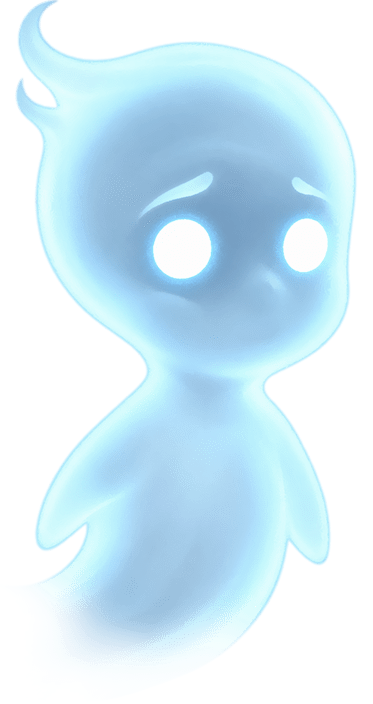
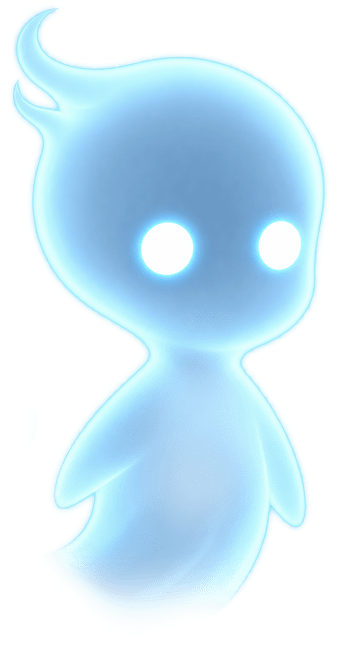
Backup slash combat tuning

diff --git a/index.html b/index.html
@@ -117,7 +117,7 @@
         
         const scene = new THREE.Scene();
 
-        const createBackgroundTexture = () => {
+        const createBackgroundTexture = (areaName = 'basement') => {
             const bgCanvas = document.createElement('canvas');
             bgCanvas.width = Math.max(512, window.innerWidth);
             bgCanvas.height = Math.max(512, window.innerHeight);
@@ -131,9 +131,17 @@
                 bgCanvas.height * 0.45,
                 radius
             );
-            gradient.addColorStop(0, '#2a0508');
-            gradient.addColorStop(0.55, '#170306');
-            gradient.addColorStop(1, '#050001');
+
+            if (areaName === 'lobby') {
+                gradient.addColorStop(0, '#3a3a3a');
+                gradient.addColorStop(0.55, '#202020');
+                gradient.addColorStop(1, '#070707');
+            } else {
+                gradient.addColorStop(0, '#2a0508');
+                gradient.addColorStop(0.55, '#170306');
+                gradient.addColorStop(1, '#050001');
+            }
+
             bgCtx.fillStyle = gradient;
             bgCtx.fillRect(0, 0, bgCanvas.width, bgCanvas.height);
 
@@ -142,7 +150,7 @@
             return texture;
         };
 
-        scene.background = createBackgroundTexture();
+        scene.background = createBackgroundTexture('basement');
         
         const getAdaptiveCameraFov = () => {
             const aspect = window.innerWidth / window.innerHeight;
@@ -174,6 +182,10 @@
         });
 
         let characterFacing = 1;
+        let soulAnimTime = 0;
+        let slashPoseTimer = 0;
+        const slashPoseDuration = 0.18;
+        let slashPoseDir = { x: 1, z: 0 };
         // Group to hold both shadow and character
         const characterGroup = new THREE.Group();
         characterGroup.position.set(1.878, 0, -2.815);
@@ -358,7 +370,7 @@
 
             objects.forEach((objectData) => {
                 const objectName = objectData.name.toLowerCase();
-                if (objectName.includes('body') || objectName.includes('protect') || objectName.includes('home_ground') || objectName.includes('disable') || objectName.includes('dissable')) return;
+                if (objectName.includes('body') || objectName.includes('protect') || objectName.includes('disable') || objectName.includes('dissable')) return;
 
                 if (objectData.faces.length > 0) {
                     const positions = [];
@@ -491,7 +503,7 @@
                 const nodeName = node.name || '';
                 const objectName = nodeName.toLowerCase();
 
-                if (objectName.includes('body') || objectName.includes('protect') || objectName.includes('home_ground') || objectName.includes('disable') || objectName.includes('dissable')) return;
+                if (objectName.includes('body') || objectName.includes('protect') || objectName.includes('disable') || objectName.includes('dissable')) return;
 
                 if (objectName.includes('ring') && node.mesh === undefined) {
                     createGeneratedRitualRing();
@@ -594,6 +606,7 @@
 
             sleepingBody.visible = areaName === 'basement';
             baseHealthDisplay.style.display = areaName === 'basement' ? 'block' : 'none';
+            scene.background = createBackgroundTexture(areaName);
 
             if (areaName === 'lobby') {
                 clearEnemies();
@@ -641,7 +654,7 @@
         // --- 4.3 Enemy System ---
         let enemies = [];
         let enemySpawnTimer = 0;
-        const enemySpawnInterval = 0.35;
+        const enemySpawnInterval = 1.4;
         const maxEnemies = 10;
         let totalEnemiesSpawned = 0;
 
@@ -668,21 +681,139 @@
         const enemyMat = new THREE.MeshBasicMaterial({ 
             map: createEnemyTexture(), transparent: true, alphaTest: 0.1, side: THREE.DoubleSide 
         });
+        const slashFrameCount = 9;
+        const slashSpritesheetTexture = new THREE.TextureLoader().load('assets/character/slash.png');
+        slashSpritesheetTexture.repeat.set(1 / slashFrameCount, 1);
+        slashSpritesheetTexture.offset.set(0, 0);
+        slashSpritesheetTexture.minFilter = THREE.LinearFilter;
+        slashSpritesheetTexture.magFilter = THREE.LinearFilter;
 
+        const slashArcMaterial = new THREE.MeshBasicMaterial({
+            map: slashSpritesheetTexture,
+            transparent: true,
+            opacity: 0,
+            depthWrite: false,
+            side: THREE.DoubleSide
+        });
+        const slashArc = new THREE.Mesh(new THREE.PlaneGeometry(1.75, 1.75), slashArcMaterial);
+        slashArc.visible = false;
+        scene.add(slashArc);
+        let slashVfxTimer = 0;
+        const slashVfxDuration = 0.11;
+
+        const hitSparkMaterial = new THREE.MeshBasicMaterial({
+            color: 0xeafcff,
+            transparent: true,
+            opacity: 1,
+            depthWrite: false,
+            side: THREE.DoubleSide
+        });
+        const hitParticles = [];
+
+        const getSlashWorldDirection = () => {
+            const inputX = moveData.turn;
+            const inputZ = -moveData.forward;
+            const inputMag = Math.sqrt(inputX * inputX + inputZ * inputZ);
+            if (inputMag > 0.05) {
+                return { x: inputX / inputMag, z: inputZ / inputMag };
+            }
+
+            const lastX = lastMoveDir.turn;
+            const lastZ = -lastMoveDir.forward;
+            const lastMag = Math.sqrt(lastX * lastX + lastZ * lastZ);
+            if (lastMag > 0.05) {
+                return { x: lastX / lastMag, z: lastZ / lastMag };
+            }
+
+            return { x: characterFacing, z: 0 };
+        };
+
+        const triggerSlashVfx = () => {
+            slashVfxTimer = slashVfxDuration;
+            slashArc.visible = true;
+            slashArcMaterial.opacity = 1;
+            slashSpritesheetTexture.offset.x = 0;
+        };
+
+        const createHitBurst = (position) => {
+            for (let i = 0; i < 8; i++) {
+                const spark = new THREE.Mesh(new THREE.PlaneGeometry(0.12, 0.42), hitSparkMaterial.clone());
+                const angle = (i / 8) * Math.PI * 2 + Math.random() * 0.25;
+                const speed = THREE.MathUtils.randFloat(2.2, 4.2);
+                spark.position.set(position.x, 0.75, position.z);
+                spark.rotation.z = angle;
+                scene.add(spark);
+                hitParticles.push({
+                    mesh: spark,
+                    velocity: { x: Math.cos(angle) * speed, z: Math.sin(angle) * speed },
+                    life: 0.22,
+                    maxLife: 0.22
+                });
+            }
+        };
+
+        const updateSlashVfx = (dt) => {
+            if (slashVfxTimer > 0) {
+                slashVfxTimer = Math.max(0, slashVfxTimer - dt);
+                const progress = 1 - slashVfxTimer / slashVfxDuration;
+                slashArc.visible = true;
+                slashArcMaterial.opacity = 1 - progress * 0.15;
+                const slashFrame = Math.min(slashFrameCount - 1, Math.floor(progress * slashFrameCount));
+                slashSpritesheetTexture.offset.x = slashFrame / slashFrameCount;
+                slashArc.scale.setScalar(0.92 + progress * 0.08);
+                const slashDir = getSlashWorldDirection();
+                const slashAngle = Math.atan2(-slashDir.z, slashDir.x);
+                slashArc.position.set(
+                    characterGroup.position.x + slashDir.x * 0.68,
+                    1.05,
+                    characterGroup.position.z + slashDir.z * 0.68
+                );
+                slashArc.quaternion.copy(camera.quaternion);
+                slashArc.rotateZ(slashAngle);
+            } else {
+                slashArc.visible = false;
+            }
+
+            for (let i = hitParticles.length - 1; i >= 0; i--) {
+                const particle = hitParticles[i];
+                particle.life -= dt;
+                particle.mesh.position.x += particle.velocity.x * dt;
+                particle.mesh.position.z += particle.velocity.z * dt;
+                particle.mesh.position.y += dt * 0.8;
+                particle.mesh.quaternion.copy(camera.quaternion);
+                particle.mesh.material.opacity = Math.max(0, particle.life / particle.maxLife);
+                particle.mesh.scale.setScalar(0.65 + (1 - particle.life / particle.maxLife) * 0.8);
+
+                if (particle.life <= 0) {
+                    scene.remove(particle.mesh);
+                    particle.mesh.material.dispose();
+                    particle.mesh.geometry.dispose();
+                    hitParticles.splice(i, 1);
+                }
+            }
+        };
         const spawnEnemy = () => {
             const enemyGroup = new THREE.Group();
             
-            const enemyMesh = new THREE.Mesh(new THREE.PlaneGeometry(1.5, 1.5), enemyMat);
-            enemyMesh.position.y = 0.75;
+            const enemyMesh = new THREE.Mesh(new THREE.PlaneGeometry(0.9, 0.9), enemyMat);
+            enemyMesh.position.y = 0.45;
             enemyGroup.add(enemyMesh);
             
             const eShadow = new THREE.Mesh(shadowGeo, shadowMat);
             eShadow.rotation.x = -Math.PI / 2; eShadow.position.y = 0.01;
             enemyGroup.add(eShadow);
             
-            const angle = Math.random() * Math.PI * 2;
-            const distance = 25; // Spawn off screen
-            enemyGroup.position.set(Math.cos(angle) * distance, 0, Math.sin(angle) * distance);
+            const spawnSide = Math.floor(Math.random() * 3);
+            const spawnZ = THREE.MathUtils.randFloat(-5.5, 12.5);
+            const spawnX = THREE.MathUtils.randFloat(-8.5, 8.5);
+
+            if (spawnSide === 0) {
+                enemyGroup.position.set(-13, 0, spawnZ);
+            } else if (spawnSide === 1) {
+                enemyGroup.position.set(13, 0, spawnZ);
+            } else {
+                enemyGroup.position.set(spawnX, 0, 15);
+            }
             
             scene.add(enemyGroup);
             enemies.push({ group: enemyGroup, mesh: enemyMesh, isAttacking: false, attackTimer: 0 });
@@ -746,14 +877,24 @@
 
         const triggerSlash = (e) => {
             e.preventDefault();
-            // Destroy any enemy within slash radius of player
-            const slashRadius = 4;
+            updateLastMoveDir();
+            const slashDir = getSlashWorldDirection();
+            slashPoseTimer = slashPoseDuration;
+            slashPoseDir = slashDir;
+            triggerSlashVfx();
+
+            const slashRange = 2.8;
+            const slashHalfAngle = Math.cos(THREE.MathUtils.degToRad(58));
             for (let i = enemies.length - 1; i >= 0; i--) {
                 const enemy = enemies[i];
-                const dx = characterGroup.position.x - enemy.group.position.x;
-                const dz = characterGroup.position.z - enemy.group.position.z;
-                const dist = Math.sqrt(dx*dx + dz*dz);
-                if (dist <= slashRadius) {
+                const dx = enemy.group.position.x - characterGroup.position.x;
+                const dz = enemy.group.position.z - characterGroup.position.z;
+                const dist = Math.sqrt(dx * dx + dz * dz);
+                if (dist <= 0 || dist > slashRange) continue;
+
+                const dot = (dx / dist) * slashDir.x + (dz / dist) * slashDir.z;
+                if (dot >= slashHalfAngle) {
+                    createHitBurst(enemy.group.position);
                     scene.remove(enemy.group);
                     enemies.splice(i, 1);
                 }
@@ -768,7 +909,7 @@
         // --- 6. Game Loop ---
         const clock = new THREE.Clock();
         const moveSpeed = 5; // units per second
-        const enemySpeed = 3;
+        const enemySpeed = 2.3;
         const cameraHeight = 18.7;
         const cameraBackDistance = 13.2;
         const cameraLookAhead = 2.0;
@@ -804,9 +945,28 @@
             const horizontalIntent = isDashing ? lastMoveDir.turn : moveData.turn;
             if (horizontalIntent > 0.05) characterFacing = 1;
             if (horizontalIntent < -0.05) characterFacing = -1;
-            character.scale.x = characterFacing;
+
+            soulAnimTime += dt;
+            slashPoseTimer = Math.max(0, slashPoseTimer - dt);
+            const isMoving = Math.abs(moveData.forward) > 0.05 || Math.abs(moveData.turn) > 0.05 || isDashing;
+            const wobbleSpeed = isMoving ? 10 : 5.5;
+            const wobble = Math.sin(soulAnimTime * wobbleSpeed);
+            const slashPoseProgress = slashPoseTimer > 0 ? 1 - slashPoseTimer / slashPoseDuration : 1;
+            const slashPoseStrength = slashPoseTimer > 0 ? Math.sin(slashPoseProgress * Math.PI) : 0;
+            const soulTilt = wobble * (isMoving ? 0.012 : 0.007);
+            const slashTilt = slashPoseStrength * (0.045 * characterFacing + slashPoseDir.x * 0.018);
+
+            character.position.set(
+                0,
+                1 + wobble * (isMoving ? 0.012 : 0.007) + slashPoseStrength * 0.025,
+                0
+            );
+            character.scale.x = characterFacing * (1 + slashPoseStrength * 0.025);
+            character.scale.y = 1 + wobble * 0.01 + slashPoseStrength * 0.02;
 
             character.quaternion.copy(camera.quaternion);
+            character.rotateZ(soulTilt + slashTilt);
+            updateSlashVfx(dt);
 
             // Dash Collision (destroy enemies when dashing into them)
             if (isDashing) {
@@ -816,6 +976,7 @@
                     const dx = characterGroup.position.x - enemy.group.position.x;
                     const dz = characterGroup.position.z - enemy.group.position.z;
                     if (Math.sqrt(dx*dx + dz*dz) <= dashHitRadius) {
+                        createHitBurst(enemy.group.position);
                         scene.remove(enemy.group);
                         enemies.splice(i, 1);
                     }
@@ -888,7 +1049,7 @@
             camera.fov = getAdaptiveCameraFov();
             camera.updateProjectionMatrix();
             renderer.setSize(window.innerWidth, window.innerHeight);
-            scene.background = createBackgroundTexture();
+            scene.background = createBackgroundTexture(activeArea);
         });
     </script>
 </body>

diff --git a/BUILD_LOG.md b/BUILD_LOG.md
@@ -35,3 +35,11 @@
 - Set the soul's starting position to the player_spown_area(disable_mesh) marker from the base environment OBJ.
 - Aligned the generated ritual ring radius/center and sleeping body protection position to the latest base OBJ markers.
 - Added the home lobby OBJ scene as a second local environment and wired the basement exit collider to switch scenes.
+- Tuned night enemy spirits to spawn from left/right/bottom only, reduced their size, slowed movement, and increased spawn spacing.
+- Added slash attack VFX with a white arc and small hit burst particles when spirits are destroyed.
+- Tightened the slash VFX so it appears close to the soul as a left-to-right curved swipe instead of a distant wave.
+- Changed slash combat from a circular area hit to a joystick-directed cone and rotated the slash VFX toward movement direction.
+- Replaced the procedural slash arc with the 9-frame slash.png spritesheet and sped up the slash animation timing.
+- Added subtle soul wobble and a quick slash pose with lean, squash/stretch, and forward nudge during attacks.
+- Reduced soul wobble and slash lean, removed slash forward nudge, and stopped shadow slash scaling.
+- Further reduced the slash lean and slash squash/stretch on the soul sprite.
